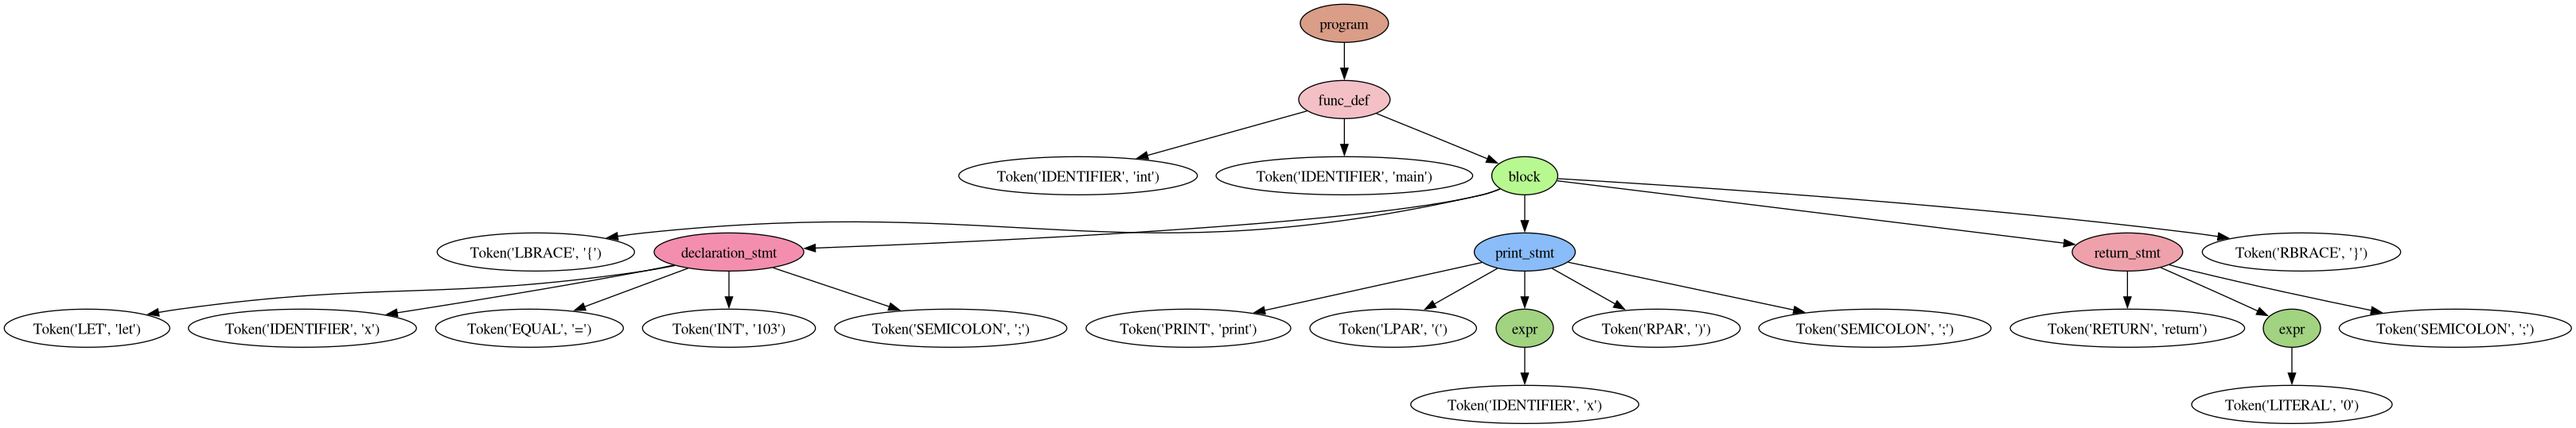
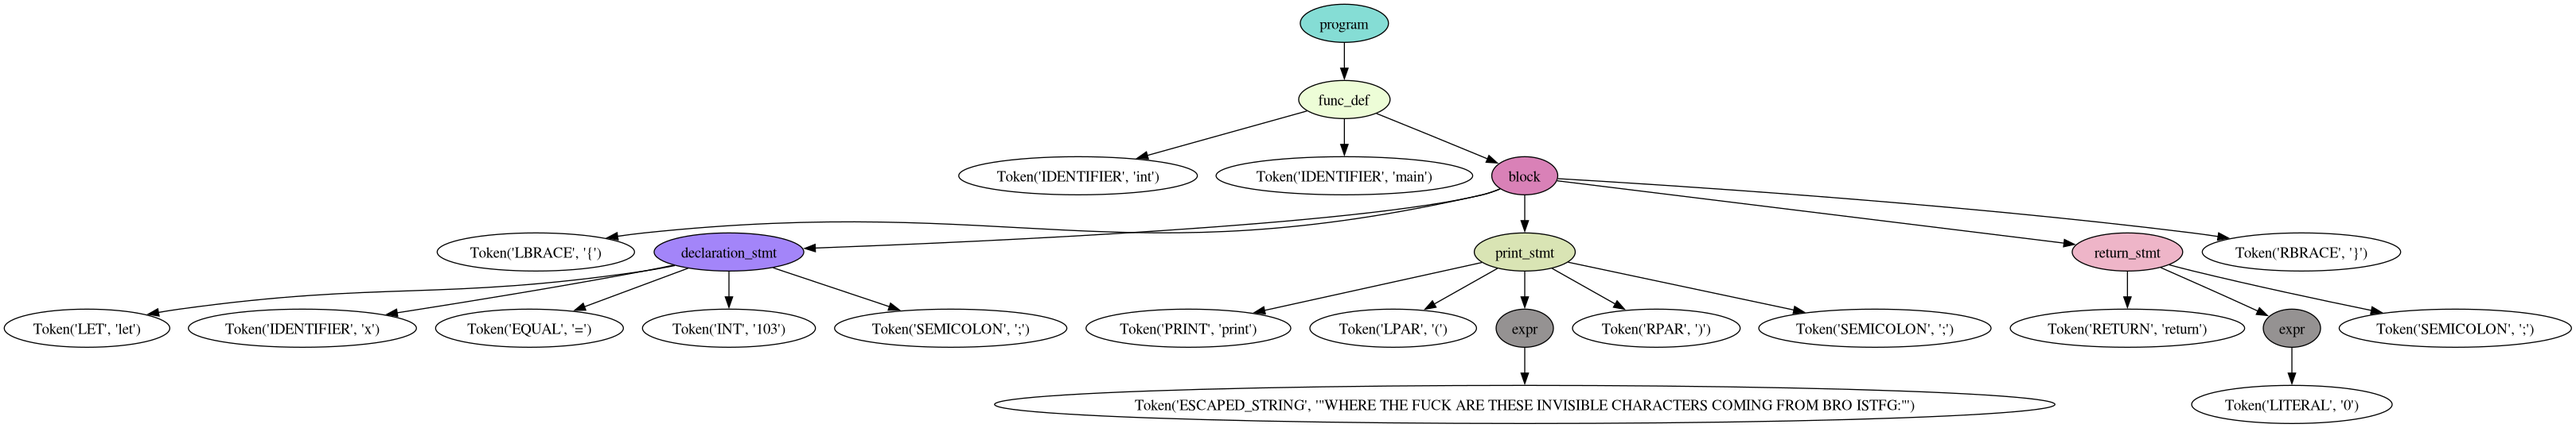
Added Proper Support for Printing Strings and Numbers

diff --git a/core/pipeline/codegen.py b/core/pipeline/codegen.py
@@ -71,27 +71,90 @@ class CodeGenVisitor:
             return self.builder.global_string_ptr(node.value)
 
     def visit_PrintStmtNode(self, node):
-        var_ptr = self.variables.get(node.identifier)
-        if var_ptr is None:
-            raise Exception(f"Undefined variable: {node.identifier}")
-        var_val = self.builder.load(var_ptr, node.identifier)
+        if isinstance(node.identifier, int):
+            print("its int!")
+            print(node.identifier)
 
-        # Declare the printf function
-        voidptr_ty = ir.IntType(8).as_pointer()
-        printf_ty = ir.FunctionType(ir.IntType(32), [voidptr_ty], var_arg=True)
-        printf = ir.Function(self.module, printf_ty, name="printf")
+            int_val = ir.Constant(ir.IntType(32), node.identifier)
 
-        # Create format string
-        format_str = "%d\n\0"
-        c_format_str = ir.Constant(ir.ArrayType(ir.IntType(8), len(format_str)),
-                                   bytearray(format_str.encode("utf8")))
-        global_format_str = ir.GlobalVariable(self.module, c_format_str.type, name="fstr")
-        global_format_str.linkage = 'internal'
-        global_format_str.global_constant = True
-        global_format_str.initializer = c_format_str
+            # Declare the printf function
+            voidptr_ty = ir.IntType(8).as_pointer()
+            printf_ty = ir.FunctionType(ir.IntType(32), [voidptr_ty], var_arg=True)
+            printf = ir.Function(self.module, printf_ty, name="printf")
 
-        # Cast the format string to i8*
-        fmt_arg = self.builder.bitcast(global_format_str, voidptr_ty)
-        self.builder.call(printf, [fmt_arg, var_val])
+            # Create format string
+            format_str = "%d\n\0"
+            c_format_str = ir.Constant(ir.ArrayType(ir.IntType(8), len(format_str)),
+                                    bytearray(format_str.encode("utf8")))
+            global_format_str = ir.GlobalVariable(self.module, c_format_str.type, name="fstr")
+            global_format_str.linkage = 'internal'
+            global_format_str.global_constant = True
+            global_format_str.initializer = c_format_str
+
+            # Cast the format string to i8*
+            fmt_arg = self.builder.bitcast(global_format_str, voidptr_ty)
+            self.builder.call(printf, [fmt_arg, int_val])
+
+        elif '"' in node.identifier and isinstance(node.identifier, str):
+            print("its str!")
+            print(f"Heres the String Value Obtained: {node.identifier}")
+            string_val = node.identifier.strip("\"")
+            print(f"Heres the String Value after Strip: {string_val}")
+
+            string_val += "\0"
+            c_str_val = ir.Constant(ir.ArrayType(ir.IntType(8), len(string_val)),
+                                    bytearray(string_val.encode("utf8")))
+            print(f"c_str_val: {c_str_val}")
+
+            # Declare the printf function
+            voidptr_ty = ir.IntType(8).as_pointer()
+            printf_ty = ir.FunctionType(ir.IntType(32), [voidptr_ty], var_arg=True)
+            printf = ir.Function(self.module, printf_ty, name="printf")
+
+            c_str = self.builder.alloca(c_str_val.type)
+            self.builder.store(c_str_val, c_str)
+            print(f"c_str: {c_str}")
+
+            # Create format string
+            format_str = "%s\n\0"
+            c_format_str = ir.Constant(ir.ArrayType(ir.IntType(8), len(format_str)),
+                                    bytearray(format_str.encode("utf8")))
+            print(f"c_format_str: {c_format_str}")
+            global_format_str = ir.GlobalVariable(self.module, c_format_str.type, name="fstr")
+            global_format_str.linkage = 'internal'
+            global_format_str.global_constant = True
+            global_format_str.initializer = c_format_str
+
+            fmt_arg = self.builder.bitcast(global_format_str, voidptr_ty)
+            print(fmt_arg)
+            self.builder.call(printf, [fmt_arg, c_str])
+            
+
+        else:
+            var_ptr = self.variables.get(node.identifier)
+            print(f"identifier: {node.identifier}")
+            print(f"heres the var_ptr: {var_ptr}")
+            if var_ptr is None:
+                raise Exception(f"Undefined variable: {node.identifier}")
+            var_val = self.builder.load(var_ptr, node.identifier)
+            print(f"heres the var_val: {var_val}")
+
+            # Declare the printf function
+            voidptr_ty = ir.IntType(8).as_pointer()
+            printf_ty = ir.FunctionType(ir.IntType(32), [voidptr_ty], var_arg=True)
+            printf = ir.Function(self.module, printf_ty, name="printf")
+
+            # Create format string
+            format_str = "%d\n\0"
+            c_format_str = ir.Constant(ir.ArrayType(ir.IntType(8), len(format_str)),
+                                    bytearray(format_str.encode("utf8")))
+            global_format_str = ir.GlobalVariable(self.module, c_format_str.type, name="fstr")
+            global_format_str.linkage = 'internal'
+            global_format_str.global_constant = True
+            global_format_str.initializer = c_format_str
+
+            # Cast the format string to i8*
+            fmt_arg = self.builder.bitcast(global_format_str, voidptr_ty)
+            self.builder.call(printf, [fmt_arg, var_val])
 
 
